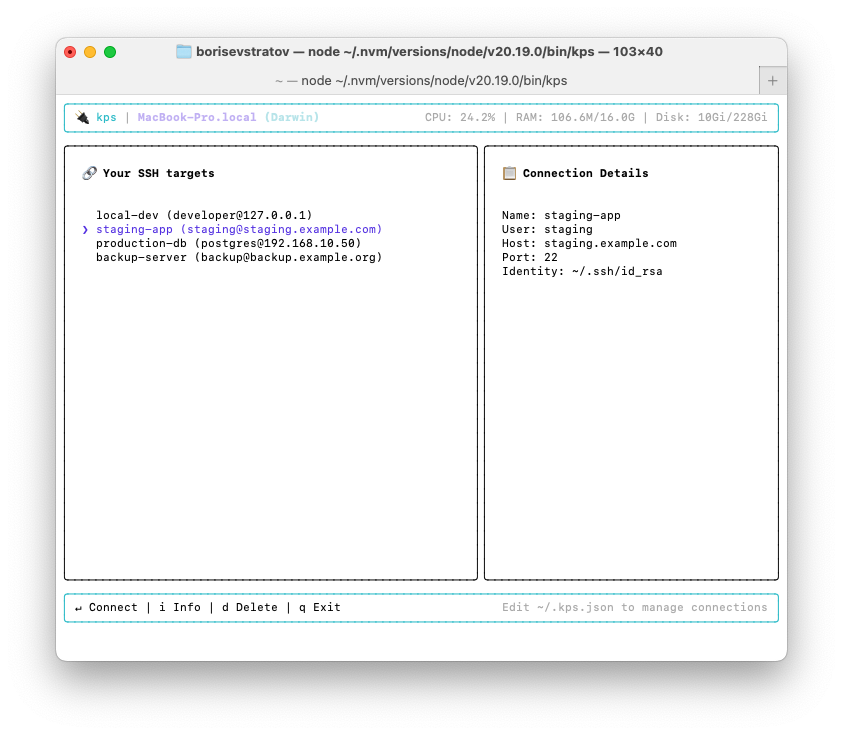
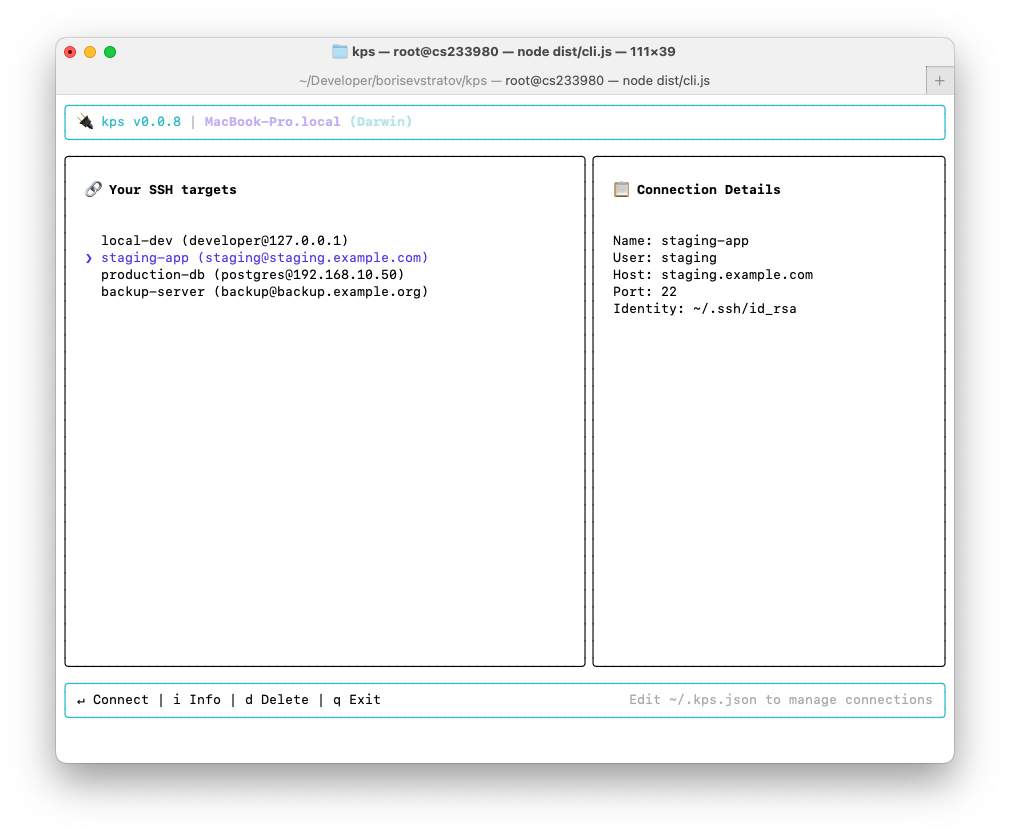
Removed sshpass dependency; Moved to ssh2 for connections

Changed region(s): [[0.0308, 0.0299, 0.9561, 0.9279], [0.0617, 0.0299, 0.1542, 0.0898]]

diff --git a/source/core/ssh.ts b/source/core/ssh.ts
@@ -1,36 +1,65 @@
-import { spawn } from "node:child_process";
 import fs from "node:fs";
 import os from "node:os";
 import path from "node:path";
+import { Client, type ConnectConfig } from "ssh2";
 import type { IConnection } from "../types/connection.js";
 import { DB_CONFIG_FILE } from "./db.js";
 
-export async function connectViaCli(connection: IConnection) {
-	let sshCommand: string;
+export async function connectSshViaCli(connection: IConnection) {
+	const conn = new Client();
+
+	conn.on("ready", () => {
+		conn.shell((err, stream) => {
+			if (err) {
+				throw err;
+			}
+
+			// Setup raw stdin
+			if (process.stdin.isTTY) {
+				process.stdin.setRawMode(true);
+			}
+			process.stdin.resume();
+
+			process.stdin.pipe(stream);
+			stream.pipe(process.stdout);
+
+			// Handle resize
+			process.stdout.on("resize", () => {
+				stream.setWindow(process.stdout.rows, process.stdout.columns, 0, 0);
+			});
+
+			stream.on("close", () => {
+				// Reset stdin before returning
+				if (process.stdin.isTTY) {
+					process.stdin.setRawMode(false);
+				}
+				process.stdin.pause();
+
+				conn.end();
+			});
+		});
+	});
+
+	conn.on("error", (err) => {
+		console.error("SSH error:", err.message);
+	});
+
+	const sshConfig: ConnectConfig = {
+		host: connection.host,
+		port: connection.port || 22,
+		username: connection.user,
+		hostVerifier: () => true,
+	};
+
 	if (connection.password) {
-		sshCommand = `sshpass -p "${connection.password}" ssh -o StrictHostKeyChecking=no`;
-		if (connection.port && connection.port !== 22) {
-			sshCommand += ` -p ${connection.port}`;
-		}
-		sshCommand += ` ${connection.user}@${connection.host}`;
+		sshConfig.password = connection.password;
 	} else if (connection.privateKey) {
-		sshCommand = `ssh -i "${connection.privateKey}" -o StrictHostKeyChecking=no`;
-		if (connection.port && connection.port !== 22) {
-			sshCommand += ` -p ${connection.port}`;
-		}
-		sshCommand += ` ${connection.user}@${connection.host}`;
+		sshConfig.privateKey = fs.readFileSync(connection.privateKey);
 	} else {
-		return;
+		throw new Error("No auth method provided");
 	}
 
-	const sshProcess = spawn(sshCommand, [], {
-		stdio: "inherit",
-		shell: true,
-	});
-
-	sshProcess.on("error", (error) => {
-		console.error("Failed to start SSH process:", error);
-	});
+	conn.connect(sshConfig);
 }
 
 export function readSshConfigAndPersist(): void {

diff --git a/source/ui/screens/Main/index.tsx b/source/ui/screens/Main/index.tsx
@@ -1,7 +1,7 @@
+import os from "node:os";
 import { Box, Text, useApp, useInput } from "ink";
 import { type FC, useState } from "react";
-import { connectViaCli } from "../../../core/ssh.js";
-import useSystemMetrics from "../../../hooks/useSystemMetrics.js";
+import { connectSshViaCli } from "../../../core/ssh.js";
 import type { IConnection } from "../../../types/connection.js";
 import BottomPanel from "../../components/BottomPanel/index.js";
 import TopPanel from "../../components/TopPanel/index.js";
@@ -12,9 +12,9 @@ import ConnectionPreview from "./components/ConnectionPreview.js";
 const MainScreen: FC = () => {
 	const [selectedIndex, setSelectedIndex] = useState(0);
 	const [showInfo, setShowInfo] = useState(false);
-	const { connections, removeConnection } = useConnections();
-	const metrics = useSystemMetrics();
+
 	const { exit } = useApp();
+	const { connections, removeConnection } = useConnections();
 
 	const conn = connections[selectedIndex] as IConnection;
 
@@ -29,7 +29,7 @@ const MainScreen: FC = () => {
 
 		if (key.return) {
 			exit();
-			return connectViaCli(conn);
+			return connectSshViaCli(conn);
 		}
 
 		if (input === "d") {
@@ -43,7 +43,19 @@ const MainScreen: FC = () => {
 
 	return (
 		<Box flexDirection="column" width="100%" height="100%">
-			<TopPanel metrics={metrics} />
+			<TopPanel
+				leftSlot={
+					<>
+						<Text color="blue" bold>
+							{os.hostname()}
+						</Text>
+						<Text color="cyan" bold>
+							{" "}
+							({os.type()})
+						</Text>
+					</>
+				}
+			/>
 			<Box flexDirection="column" flexGrow={1}>
 				{connections.length === 0 && (
 					<Text color="red">No connections found. Press q to exit.</Text>

diff --git a/source/ui/components/TopPanel/index.tsx b/source/ui/components/TopPanel/index.tsx
@@ -1,15 +1,14 @@
-import { Box, Text } from "ink";
-import type { FC } from "react";
-import type { IMetrics } from "../../../types/common.js";
+import { Box } from "ink";
+import type { FC, ReactNode } from "react";
 import Logo from "../Logo/index.js";
 
 type Props = {
-	metrics: IMetrics;
+	leftSlot?: ReactNode;
+	rightSlot?: ReactNode;
 };
 
 const TopPanel: FC<Props> = (props) => {
-	const { metrics } = props;
-	const { hostname, type, cpu, ram, disk } = metrics;
+	const { leftSlot, rightSlot } = props;
 
 	return (
 		<Box
@@ -21,19 +20,9 @@ const TopPanel: FC<Props> = (props) => {
 		>
 			<Box>
 				<Logo />
-				<Text color="blue" bold>
-					{hostname}
-				</Text>
-				<Text color="cyan" bold>
-					{" "}
-					({type})
-				</Text>
+				{leftSlot}
 			</Box>
-			<Box>
-				<Text dimColor>
-					CPU: {cpu} | RAM: {ram} | Disk: {disk}
-				</Text>
-			</Box>
+			<Box>{rightSlot}</Box>
 		</Box>
 	);
 };

diff --git a/source/ui/components/Logo/index.tsx b/source/ui/components/Logo/index.tsx
@@ -1,9 +1,13 @@
+import { createRequire } from "node:module";
 import { Text } from "ink";
+
+const require = createRequire(import.meta.url);
+const packageJson = require("../../../../package.json");
 
 const Logo = () => {
 	return (
 		<>
-			<Text color="cyan">🔌 kps</Text>
+			<Text color="cyan">🔌 kps v{packageJson.version}</Text>
 			<Text dimColor> | </Text>
 		</>
 	);

diff --git a/source/core/db.ts b/source/core/db.ts
@@ -15,7 +15,6 @@ interface Data {
 const adapter = new JSONFile<Data>(DB_CONFIG_FILE);
 export const db = new Low<Data>(adapter, { connections: [] });
 
-// Make sure data is loaded once
 export async function initDB() {
 	if (!fs.existsSync(DB_CONFIG_FILE)) {
 		readSshConfigAndPersist();

diff --git a/README.md b/README.md
@@ -13,9 +13,6 @@ A terminal-based SSH connection manager.
 ## Requirements
 
 - Node.js >= 16
-- sshpass
-  - Linux `apt-get install sshpass`
-  - macOS: `brew install sshpass`
 
 ## Installation
 
